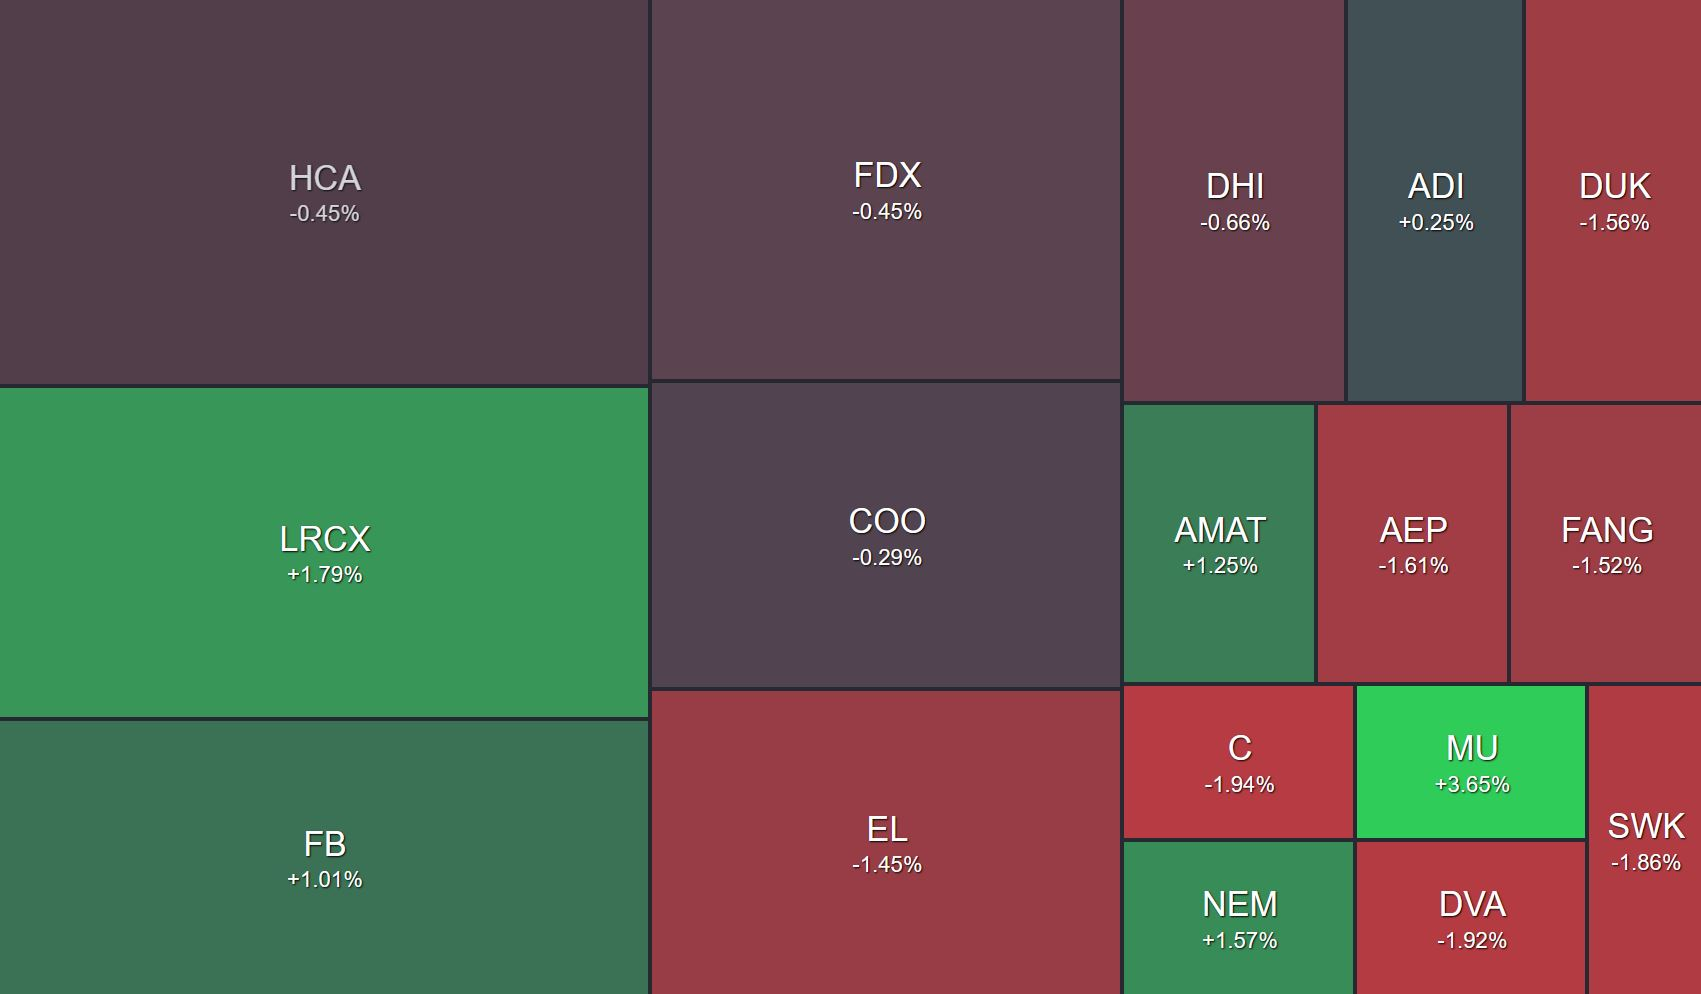
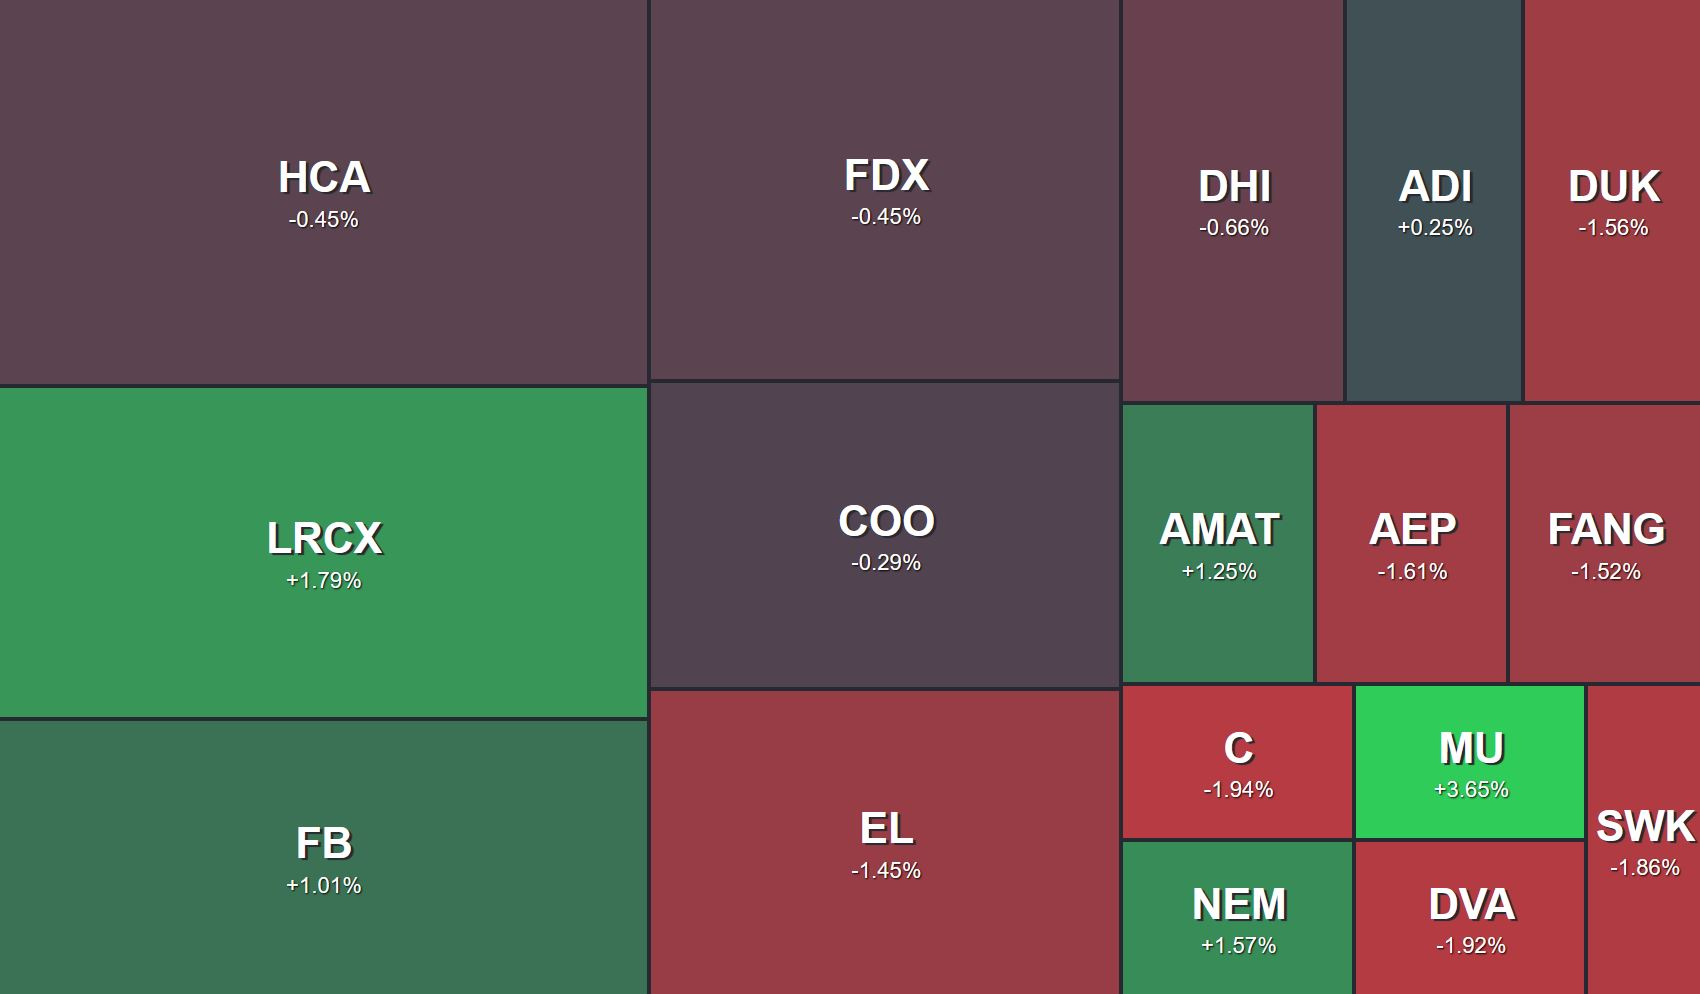
Modified readme

diff --git a/styles.css b/styles.css
@@ -22,8 +22,9 @@ body {
 
 .rectangle .ticker {
     color: white;
-    font-size: 2vw;
-    text-shadow: 1px 1px 2px black;
+    font-size: 2.5vw;
+    font-weight: bold;
+    text-shadow: 3px 2px 1px rgb(38, 41, 49);
     margin-bottom: 0.1em; /* Add some space between the ticker and daychange */
 }
 
